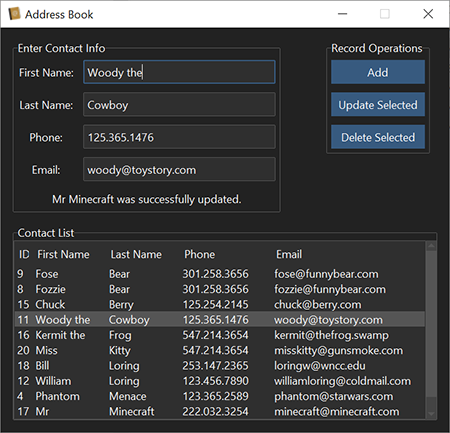
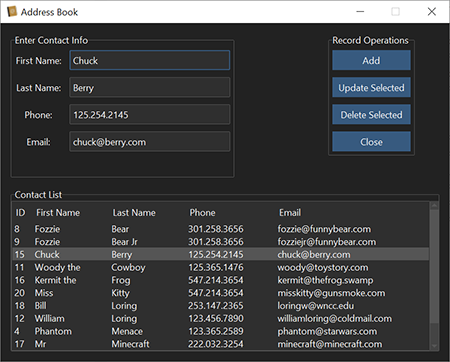
Update

diff --git a/address_book_gui_bootstrap.py b/address_book_gui_bootstrap.py
@@ -98,10 +98,7 @@ class AddressBook:
                 )
 
         # Clear the entry widgets
-        self.entry_fname.delete(0, END)
-        self.entry_lname.delete(0, END)
-        self.entry_phone.delete(0, END)
-        self.entry_email.delete(0, END)
+        self.clear_entry_widgets()
 
         # Display all records in treeview
         self.fetch_all_records()
@@ -139,11 +136,8 @@ class AddressBook:
         """When a record is selected, the values are inserted into
            the appropriate entry boxes for modification."""
         try:
-            # Clear entry boxes
-            self.entry_fname.delete(0, END)
-            self.entry_lname.delete(0, END)
-            self.entry_phone.delete(0, END)
-            self.entry_email.delete(0, END)
+            # Clear entry widgets
+            self.clear_entry_widgets()
 
             # Get the selected (focus) item from the tree
             self.selected = self.tree.focus()
@@ -183,12 +177,8 @@ class AddressBook:
             # Execute query against SQLite database
             self.db_op.update_record(first_name, last_name, phone, email, id)
 
-            # Clear entry widgets, set focus to name entry widget
-            self.entry_fname.delete(0, END)
-            self.entry_lname.delete(0, END)
-            self.entry_phone.delete(0, END)
-            self.entry_email.delete(0, END)
-            self.entry_fname.focus()
+            # Clear entry widgets
+            self.clear_entry_widgets()
 
             # Display all records in treeview
             self.fetch_all_records()
@@ -216,10 +206,7 @@ class AddressBook:
             self.db_op.delete_record(id)
 
             # Clear the Entry widgets
-            self.entry_fname.delete(0, END)
-            self.entry_lname.delete(0, END)
-            self.entry_phone.delete(0, END)
-            self.entry_email.delete(0, END)
+            self.clear_entry_widgets()
 
             # Set the focus
             self.entry_fname.focus()
@@ -335,7 +322,7 @@ class AddressBook:
     def create_treeview(self):
         """Setup tree view for record display"""
 
-        # Define the columns for the treeview (id, first_name, last_name, phone, email)
+        # Define the columns for the treeview
         self.columns = "id", "first_name", "last_name", "phone", "email"
 
         # Create the Treeview widget
@@ -350,24 +337,35 @@ class AddressBook:
         )
 
         # Set the width for each column in the treeview
-        self.tree.column("id", width=30)
-        self.tree.column("first_name", width=120)
-        self.tree.column("last_name", width=120)
-        self.tree.column("phone", width=150)
-        self.tree.column("email", width=250)
+        self.tree.column("id", width=40)
+        self.tree.column("first_name", width=150)
+        self.tree.column("last_name", width=150)
+        self.tree.column("phone", width=175)
+        self.tree.column("email", width=300)
 
         # Set up the column headings with sorting functionality
-        self.tree.heading("id", text="ID", anchor=W,  # Text shown in the "id" column header
+        # Text shown in the "id" column header
+        self.tree.heading("id", text="ID", anchor=W,
                           # Sort by ID when clicked
-                          command=lambda: self.sort_treeview("id", False))
+                          command=lambda: self.sort_treeview("id", False)
+                          )
         self.tree.heading("first_name", text="First Name", anchor=W,
-                          command=lambda: self.sort_treeview("first_name", False))
+                          command=lambda: self.sort_treeview(
+                              "first_name", False)
+                          )
         self.tree.heading("last_name", text="Last Name", anchor=W,
-                          command=lambda: self.sort_treeview("last_name", False))
+                          command=lambda: self.sort_treeview(
+                              "last_name", False)
+                          )
         self.tree.heading("phone", text="Phone", anchor=W,
-                          command=lambda: self.sort_treeview("phone", False))
-        self.tree.heading("email", text="Email", anchor=W,
-                          command=lambda: self.sort_treeview("email", False))
+                          command=lambda: self.sort_treeview("phone", False)
+                          )
+        self.tree.heading(
+            "email",
+            text="Email",
+            anchor=W,
+            command=lambda: self.sort_treeview("email", False)
+        )
 
         # Place the treeview widget in the grid at row 0, column 0
         self.tree.grid(row=0, column=0)
@@ -417,6 +415,16 @@ class AddressBook:
             column, command=lambda: self.sort_treeview(column, not descending)
         )
 
+# --------------------- CLEAR ENTRY WIDGETS ------------------------------ #
+    def clear_entry_widgets(self):
+        # Clear entry widgets, set focus to name entry widget
+        self.entry_fname.delete(0, END)
+        self.entry_lname.delete(0, END)
+        self.entry_phone.delete(0, END)
+        self.entry_email.delete(0, END)
+        self.entry_fname.focus()
+
+# -------------------------- CLOSE PROGRAM ------------------------------- #
     def close(self):
         self.root.destroy()
 

diff --git a/address_book_gui.py b/address_book_gui.py
@@ -96,10 +96,7 @@ class AddressBook:
                 )
 
         # Clear the entry widgets
-        self.entry_fname.delete(0, END)
-        self.entry_lname.delete(0, END)
-        self.entry_phone.delete(0, END)
-        self.entry_email.delete(0, END)
+        self.clear_entry_widgets()
 
         # Display all records in treeview
         self.fetch_all_records()
@@ -138,10 +135,7 @@ class AddressBook:
            the appropriate entry boxes for modification."""
         try:
             # Clear entry boxes
-            self.entry_fname.delete(0, END)
-            self.entry_lname.delete(0, END)
-            self.entry_phone.delete(0, END)
-            self.entry_email.delete(0, END)
+            self.clear_entry_widgets()
 
             # Get the selected (focus) item from the tree
             self.selected = self.tree.focus()
@@ -182,11 +176,7 @@ class AddressBook:
             self.db_op.update_record(first_name, last_name, phone, email, id)
 
             # Clear entry widgets, set focus to name entry widget
-            self.entry_fname.delete(0, END)
-            self.entry_lname.delete(0, END)
-            self.entry_phone.delete(0, END)
-            self.entry_email.delete(0, END)
-            self.entry_fname.focus()
+            self.clear_entry_widgets()
 
             # Display all records in treeview
             self.fetch_all_records()
@@ -214,10 +204,7 @@ class AddressBook:
             self.db_op.delete_record(id)
 
             # Clear the Entry widgets
-            self.entry_fname.delete(0, END)
-            self.entry_lname.delete(0, END)
-            self.entry_phone.delete(0, END)
-            self.entry_email.delete(0, END)
+            self.clear_entry_widgets()
 
             # Set the focus
             self.entry_fname.focus()
@@ -377,6 +364,16 @@ class AddressBook:
         # Fill the treeview selection to the entry boxes
         self.tree.bind("<<TreeviewSelect>>", self.on_tree_select)
 
+# --------------------- CLEAR ENTRY WIDGETS ------------------------------ #
+    def clear_entry_widgets(self):
+        # Clear entry widgets, set focus to name entry widget
+        self.entry_fname.delete(0, END)
+        self.entry_lname.delete(0, END)
+        self.entry_phone.delete(0, END)
+        self.entry_email.delete(0, END)
+        self.entry_fname.focus()
+
+# -------------------------- CLOSE PROGRAM ------------------------------- #
     def close(self):
         self.root.destroy()
 

diff --git a/README.md b/README.md
@@ -1,12 +1,18 @@
 # Address Book built with Python, SQLite, and Tkinter
 
-This is a project to demonstrate one way to implement the MVC (Model, View, Controller) design pattern in Python with SQLite.
+This is a project to demonstrate one way to implement the MVC (Model, View, Controller) design pattern in Python with SQLite. I decided to create different Python UI library versions. Each UI (View) uses the same Controller (db_operations.py) and database (address_book.db).
 
-Standard tkinter.
+## tkinter.ttk
+
+tkinter.ttk library built in to Python.
 
 ![App Interface](./img/app.png)
 
-Use the ttkbootstrap library. Add sorting functionality to the column headings.
+## ttkbootstrap
+
+https://ttkbootstrap.readthedocs.io/en/latest/
+
+- Added sorting functionality to the column headings.
 
 ![App Interface](./img/app_bootstrap.png)
 
